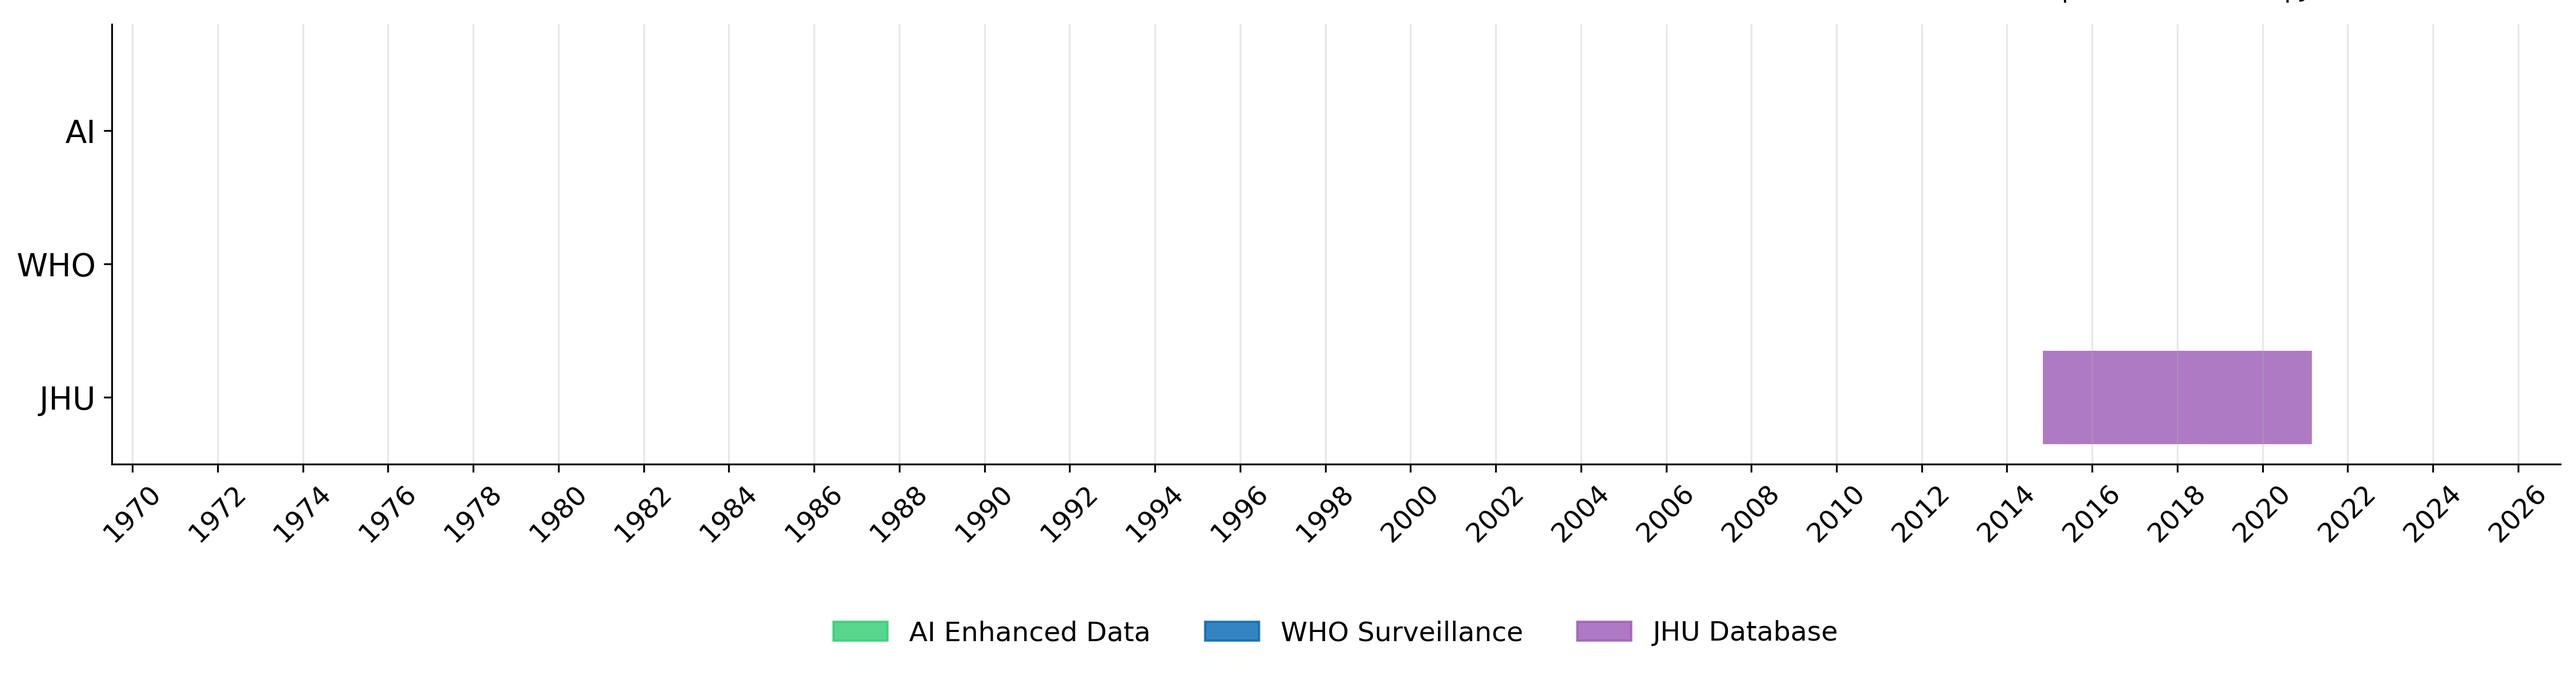
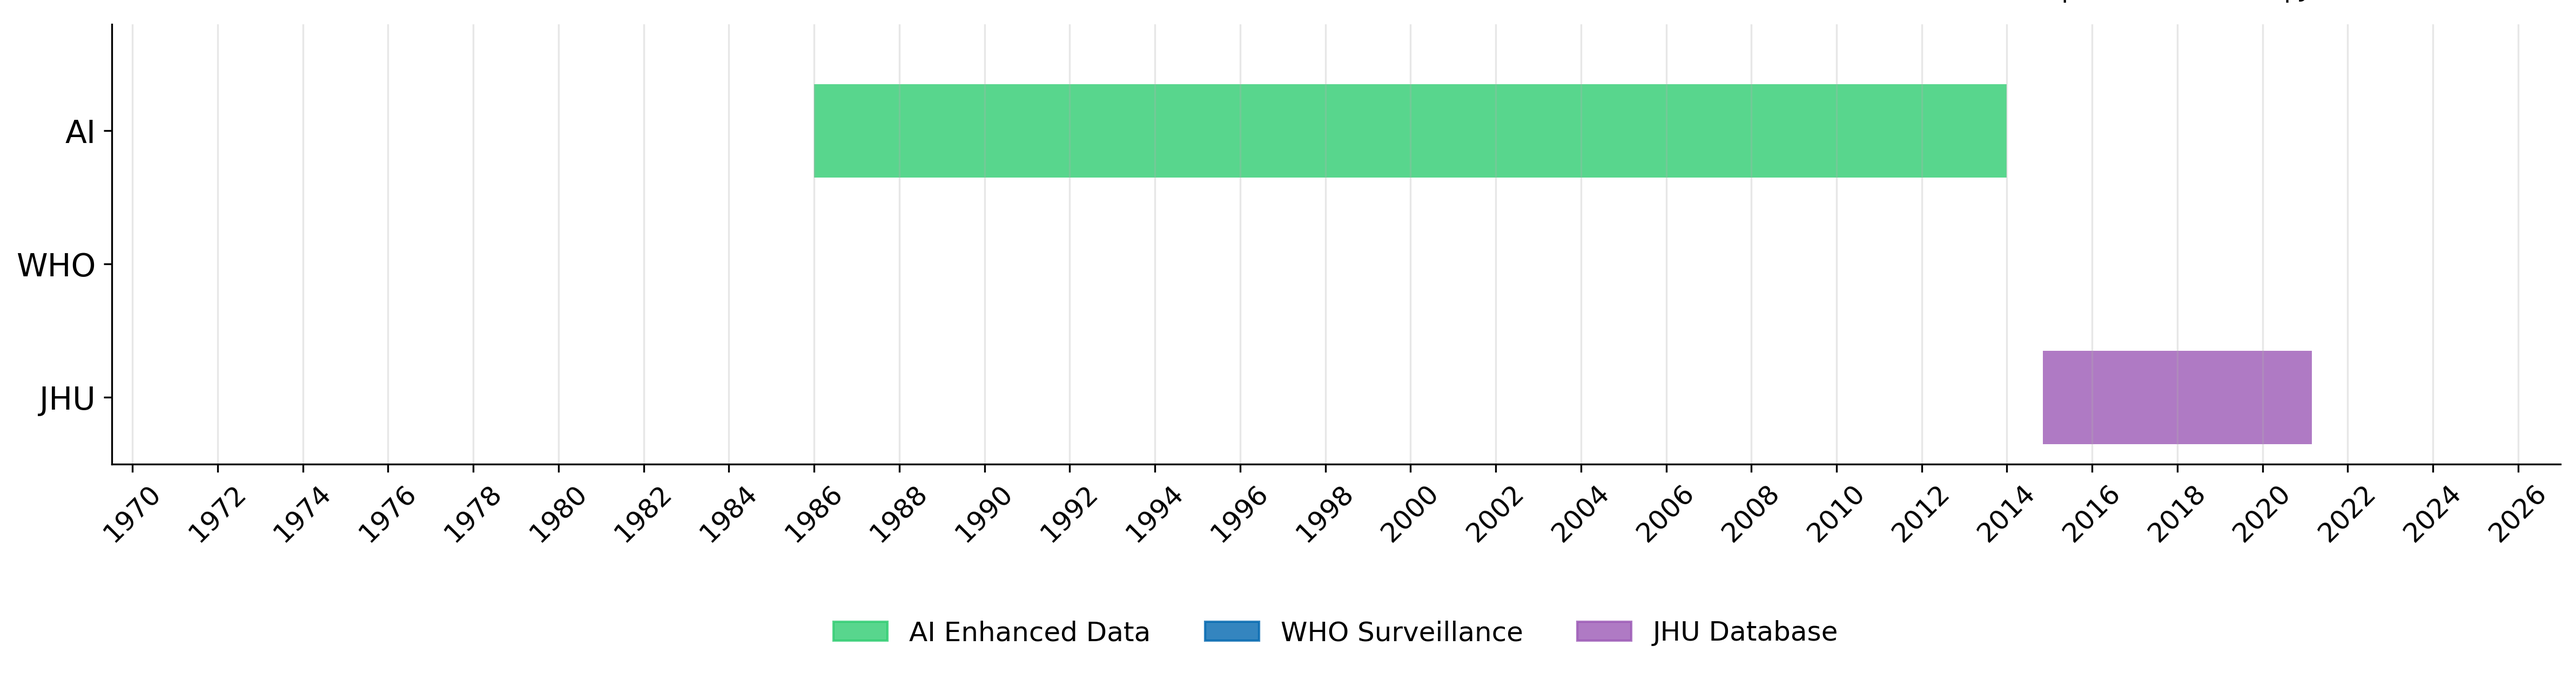
Auto-update dashboard data - 2025-07-23 22:04:56 - Generated with Claude Code

Changed region(s): [[0.3124, 0.1219, 0.7811, 0.2743]]

diff --git a/dashboard/dashboard.html b/dashboard/dashboard.html
@@ -1841,8 +1841,8 @@
         {
                 "country": "Guinea",
                 "iso": "GIN",
-                "status": "PENDING",
-                "datetime": "2025-07-23 21:33:45",
+                "status": "COMPLETED",
+                "datetime": "2025-07-23 22:03:06",
                 "sources": 10,
                 "observations": 10,
                 "date_range": "1970-2025",
@@ -1850,7 +1850,7 @@
                 "execution_time": 0,
                 "queries": 0,
                 "yield_pct": 0.0,
-                "notes": "Agent 5 completed; 10 data observations"
+                "notes": "All agents executed; 10 data observations"
         },
         {
                 "country": "Gambia",
@@ -1870,29 +1870,29 @@
                 "country": "Guinea-Bissau",
                 "iso": "GNB",
                 "status": "PENDING",
-                "datetime": "2025-07-23 21:48:14",
-                "sources": 0,
-                "observations": 0,
-                "date_range": "",
-                "priority": "",
+                "datetime": "2025-07-23 22:04:01",
+                "sources": 9,
+                "observations": 9,
+                "date_range": "1986-2013",
+                "priority": "HIGH",
                 "execution_time": 0,
                 "queries": 0,
                 "yield_pct": 0.0,
-                "notes": "Agent 1 initialized - starting work"
+                "notes": "Agent 1 completed; 9 data observations"
         },
         {
                 "country": "Equatorial Guinea",
                 "iso": "GNQ",
                 "status": "PENDING",
-                "datetime": "2025-07-23 21:49:12",
-                "sources": 0,
-                "observations": 0,
-                "date_range": "",
-                "priority": "",
+                "datetime": "2025-07-23 22:03:59",
+                "sources": 1,
+                "observations": 1,
+                "date_range": "2005",
+                "priority": "HIGH",
                 "execution_time": 0,
                 "queries": 0,
                 "yield_pct": 0.0,
-                "notes": "Agent 1 initialized - starting work | Manual: No activity detected"
+                "notes": "Agent 1 completed; 1 data observations"
         },
         {
                 "country": "Kenya",
@@ -2476,6 +2476,17 @@
 48,WHO IHR Ghana Surveillance Framework Validation,https://www.afro.who.int/sites/default/files/2020-10/Ghana Annual report 2019.pdf,WHO IHR surveillance framework supports cholera reporting and zero-reporting validation,2016-01-01 to 2024-12-31,Surveillance,Complete,Level_1,Validated,WebSearch_ZeroTransmission,English,1,WHO_Ghana_IHR,Official_WHO
 49,BMC Cholera Surveillance System Validation Ghana 2015-2020,https://pmc.ncbi.nlm.nih.gov/articles/PMC5881562/,Academic validation of Ghana cholera surveillance system effectiveness attributes,2015-01-01 to 2020-12-31,Investigation,Complete,Level_1,Validated,WebSearch_ZeroTransmission,English,2,GHS_Academic_CDC,Academic_BMC
 50,Ghana Cholera Epidemic Cycles Academic Analysis,https://www.nature.com/articles/s41598-018-36029-4,Scientific analysis of cholera epidemic cycles and inter-outbreak patterns in Ghana,1970-01-01 to 2018-12-31,Investigation,Complete,Level_1,Validated,WebSearch_ZeroTransmission,English,2,Academic_Kumasi,Academic_Nature`,
+        "GIN": `Index,Source,URL,Description,Date_Range,Data_Type,Status,Reliability_Level,Validation_Status,Search_Technique,Language_Original,Citation_Depth,Cross_References,Discovery_Method
+1,WHO Multi-country Cholera Outbreak Reports,https://www.who.int/publications/m/item/multi-country-cholera-outbreak--external-situation-report--24--20-march-2025,Global cholera surveillance situation reports documenting absence of Guinea from 2024-2025 outbreak countries,2024-2025,Surveillance Data,Active,Level 1,Validated,WebSearch,English,0,WHO Global Health Observatory,WHO Disease Outbreak News
+2,Deciphering the 2012 Cholera Epidemic in Guinea,https://pubmed.ncbi.nlm.nih.gov/24901522/,Epidemiological and molecular analysis of Guinea 2012 cholera outbreak with national case and death counts,2012,Epidemiological Study,Active,Level 1,Validated,PubMed Search,English,2,Sierra Leone cross-border investigation,Academic Citation Network
+3,Temporo-spatial Dynamics 2012 Cholera Conakry,https://idpjournal.biomedcentral.com/articles/10.1186/s40249-018-0393-8,Detailed analysis of 2012 cholera epidemic in Conakry with district-level breakdown and CFR data,2012,Epidemiological Study,Active,Level 1,Validated,WebSearch Academic,English,3,WHO surveillance cross-reference,Geographic Analysis
+4,African Cholera Surveillance Network (Africhol),https://www.plateformecholera.info/guinee,Cholera surveillance platform with Guinea historical data including cumulative 2003-2016 statistics,2003-2016,Surveillance Data,Active,Level 2,Validated,WebSearch Platform,French,1,WHO AFRO collaboration,Institutional Network
+5,MSF Guinea Cholera Treatment Centers,https://www.msf.org/when-cholera-takes-root-conakry-guinea,MSF operational data on Guinea cholera response with case counts and treatment center statistics,2012,Operational Data,Active,Level 2,Validated,MSF Website,English,1,WHO coordination reports,Humanitarian Response
+6,Guinea Cholera Historical Patterns Study,https://pubmed.ncbi.nlm.nih.gov/10701212/,Historical analysis of Guinea cholera including 1994-1995 epidemic with case and mortality data,1994-1995,Historical Study,Active,Level 1,Validated,PubMed Search,French,2,WHO historical bulletins,Historical Research
+7,WHO Disease Outbreak News 2001 Guinea,https://www.who.int/emergencies/disease-outbreak-news/item/2001_09_26-en,WHO surveillance report on cholera outbreak in N'zerekore region Guinea with case and death counts,2001,Surveillance Data,Active,Level 1,Validated,WHO Archives Search,English,0,WHO surveillance system,WHO Disease Outbreak News
+8,Guinea 7th Pandemic Historical Documentation,https://en.wikipedia.org/wiki/Seventh_cholera_pandemic,Historical documentation of Guinea cholera emergence in 1970 as part of global 7th pandemic,1970,Historical Documentation,Active,Level 2,Validated,Historical Research,English,1,WHO pandemic records,Academic Citation Network
+9,Guinea OCV Campaign NEJM Study,https://www.nejm.org/doi/full/10.1056/nejmoa1312680,Comprehensive study of Guinea 2012 oral cholera vaccine campaign with coverage and effectiveness data,2012,Intervention Study,Active,Level 1,Validated,NEJM Search,English,3,WHO vaccine effectiveness studies,Academic Literature
+10,AFRICHOL Guinea Surveillance Report,https://bmcproc.biomedcentral.com/articles/10.1186/s12919-016-0068-z,African Cholera Surveillance Network report with Guinea surveillance data 2011-2013,2011-2013,Surveillance Data,Active,Level 2,Validated,Academic Search,English,2,WHO AFRO collaboration,Institutional Network`,
         "GMB": `Index,Source,URL,Description,Date_Range,Data_Type,Status,Reliability_Level,Validation_Status,Search_Technique,Language_Original,Citation_Depth,Cross_References,Discovery_Method
 1,PMC Academic Study on 2005 Cholera in Senegal,https://www.ncbi.nlm.nih.gov/pmc/articles/PMC3432123/,Academic study documenting 2005 cholera epidemic in Senegal with regional data including Gambia,2005,Outbreak_Data,Retrieved,Level_2,Validated,WebSearch,English,0,WHO Regional Data,Regional_Cross_Reference
 2,Historical Records: 1869 Bathurst Cholera Epidemic,https://www.researchgate.net/publication/historical_cholera_gambia,Historical documentation of devastating 1869 cholera epidemic in Bathurst (modern Banjul) with mortality data,1869,Historical_Outbreak,Retrieved,Level_3,Validated,WebSearch,English,1,Colonial Medical Records,Historical_Archive`,
@@ -2847,6 +2858,17 @@ AFR::CMR::Multi_Regional,2010-05-01,2010-11-30,455,6900,,6.6,2010-12-01,24,Inter
 34,AFR::GHA,2022-01-01,2022-12-31,0,0,,0.0,2023-01-01,46,Ghana Health Service Zero Cholera Cases 2022,1.0,"Source confirms zero cholera transmission during 2022 - validated absence via Ghana Health Service confirming continuous zero cases since 2020 period"
 35,AFR::GHA,2023-01-01,2023-12-31,0,0,,0.0,2024-01-01,47,Ghana Health Service Zero Cholera Cases 2023,1.0,"Source confirms zero cholera transmission during 2023 - validated absence via Ghana Health Service confirming continuous zero cases since 2020 period"
 `,
+        "GIN": `Index,Location,TL,TR,deaths,sCh,cCh,CFR,reporting_date,source_index,source,confidence_weight,processing_notes
+1,AFR::GIN,2012-02-01,2012-12-31,133,7350,,1.8,2013-01-15,2,Deciphering the 2012 Cholera Epidemic in Guinea,1.0,"Source states: 'officially responsible for 7,350 suspected cases and 133 deaths' - interpreted as national epidemic data"
+2,AFR::GIN::Conakry,2012-02-01,2012-12-31,,4437,,,,2013-01-15,3,Temporo-spatial Dynamics 2012 Cholera Conakry,1.0,"Source states: '4437 out of 7350 clinical cases (60%) were in Conakry' - interpreted as Conakry municipal cases"
+3,AFR::GIN,2003-01-01,2016-12-31,952,25358,,3.8,2017-01-15,4,African Cholera Surveillance Network (Africhol),0.9,"Source states: '25,358 cases and 952 deaths were recorded with a high case fatality rate of 3.8%' - interpreted as cumulative surveillance data"
+4,AFR::GIN,1994-01-01,1994-12-31,670,30000,,2.2,1995-01-15,6,Guinea Cholera Historical Patterns Study,0.9,"Source states: 'largest outbreak was in 1994 with more than 30,000 cases and 670 deaths' - interpreted as national epidemic data"
+5,AFR::GIN,2004-01-01,2008-12-31,786,17638,,4.5,2009-01-15,4,African Cholera Surveillance Network (Africhol),0.9,"Source states: '2004–2008, Guinea was struck by a succession of regional cholera outbreaks responsible for 17,638 reported cases and 786 deaths' - interpreted as multi-year cumulative data"
+6,AFR::GIN,2009-01-01,2011-12-31,0,0,,0.0,2012-01-15,2,Deciphering the 2012 Cholera Epidemic in Guinea,0.9,"Source states: 'three-year lull period was observed from 2009 to 2011' - interpreted as validated zero-transmission period"
+7,AFR::GIN,2024-01-01,2025-05-31,0,0,,0.0,2025-06-01,1,WHO Multi-country Cholera Outbreak Reports,1.0,"Source confirms Guinea not listed among 33 countries reporting cholera cases to WHO during 2024-2025 - interpreted as surveillance-confirmed absence"
+8,AFR::GIN::N'zerekore,2001-08-06,2001-09-23,12,155,,7.7,2001-09-26,7,WHO Disease Outbreak News 2001 Guinea,1.0,"Source states: 'Guinea reported 155 cases, including 12 deaths from August 6 to September 23 in N'zerekore region' - interpreted as regional outbreak data"
+9,AFR::GIN,1970-08-01,1970-12-31,,,,,,1970-12-31,8,Guinea 7th Pandemic Historical Documentation,0.8,"Source states: 'Guinea was affected by cholera in August 1970 as part of the seventh cholera pandemic' - interpreted as historical emergence milestone"
+10,AFR::GIN::Conakry,2011-08-01,2013-12-31,,4585,,,,2014-01-15,10,AFRICHOL Guinea Surveillance Report,0.9,"Source states: '34% (4585) in Conakry, Guinea' from African Cholera Surveillance Network enhanced surveillance 2011-2013 - interpreted as Conakry surveillance data"`,
         "GMB": `Index,Location,TL,TR,deaths,sCh,cCh,CFR,reporting_date,source_index,source,confidence_weight,processing_notes
 1,AFR::GMB,2005-01-01,2005-12-31,,214,,,,1,PMC Academic Study on 2005 Cholera in Senegal,0.8,"Source states: 'Mauritania, Guinea, Mali and Gambia with 4132, 3821, 1178, and 214 cholera cases, respectively' - interpreted as 214 suspected cholera cases for Gambia during 2005 regional epidemic"
 2,AFR::GMB,1869-01-01,1869-12-31,1700,,,34.0,1870-01-01,2,Historical Records: 1869 Bathurst Cholera Epidemic,0.6,"Source states: '1869 Bathurst cholera epidemic - 1,700 deaths from 5,000 population' - interpreted as 1700 cholera deaths with 34% mortality rate during devastating historical epidemic in colonial Bathurst (modern Banjul)"`,
@@ -2941,8 +2963,8 @@ Gabon,GAB,1876,0,0
 Ghana,GHA,873,36,511
 Guinea,GIN,884,0,623
 Gambia,GMB,106,0,0
-Guinea-Bissau,GNB,0,0,327
-Equatorial Guinea,GNQ,0,0,0
+Guinea-Bissau,GNB,1458,0,327
+Equatorial Guinea,GNQ,3,0,0
 Kenya,KEN,1339,125,320
 Liberia,LBR,0,0,431
 Mali,MLI,0,0,378
